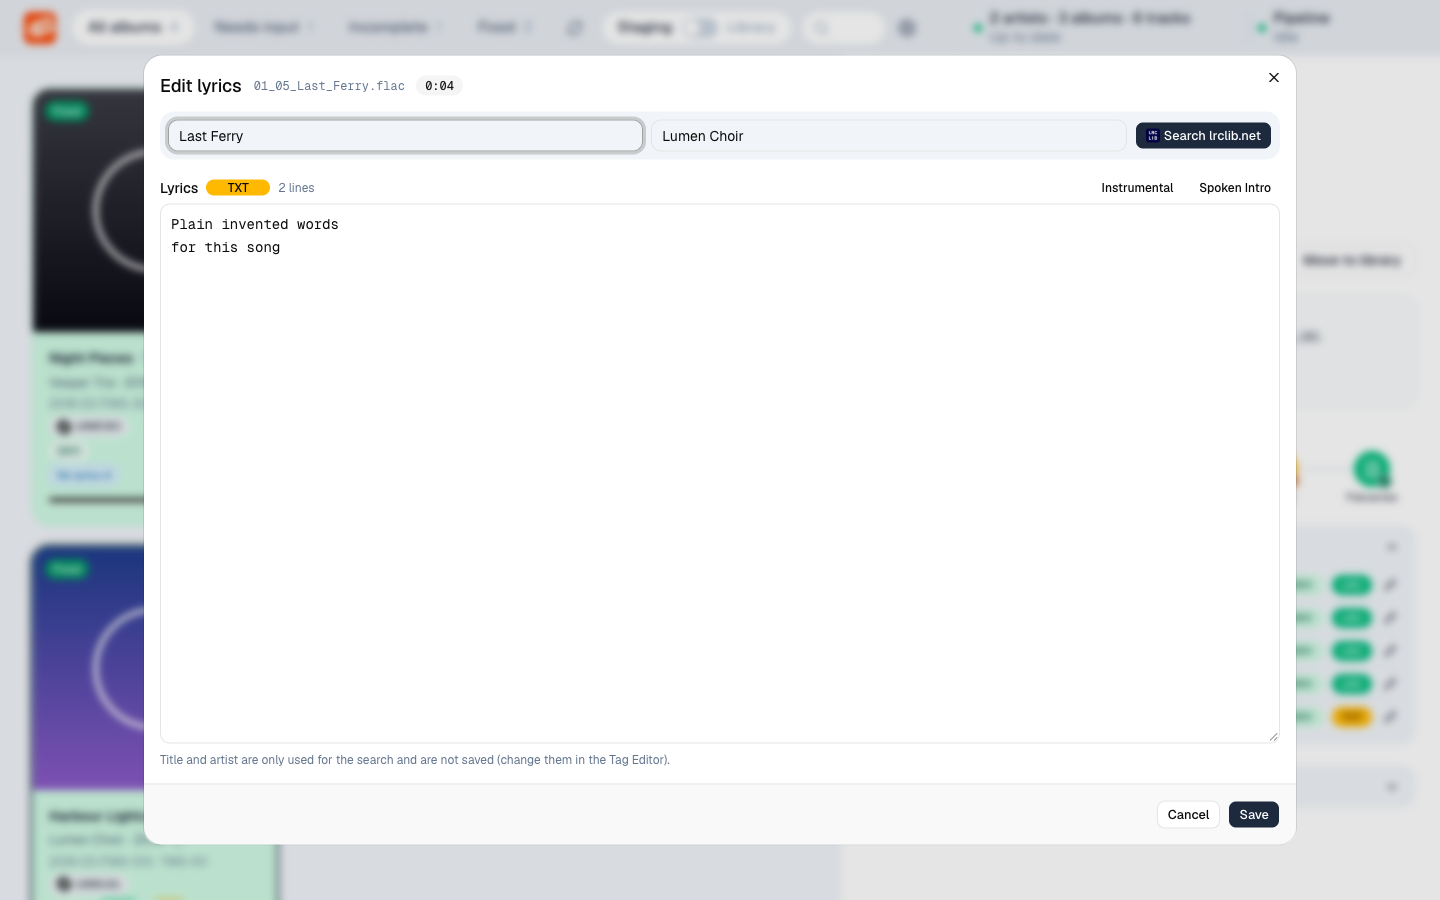
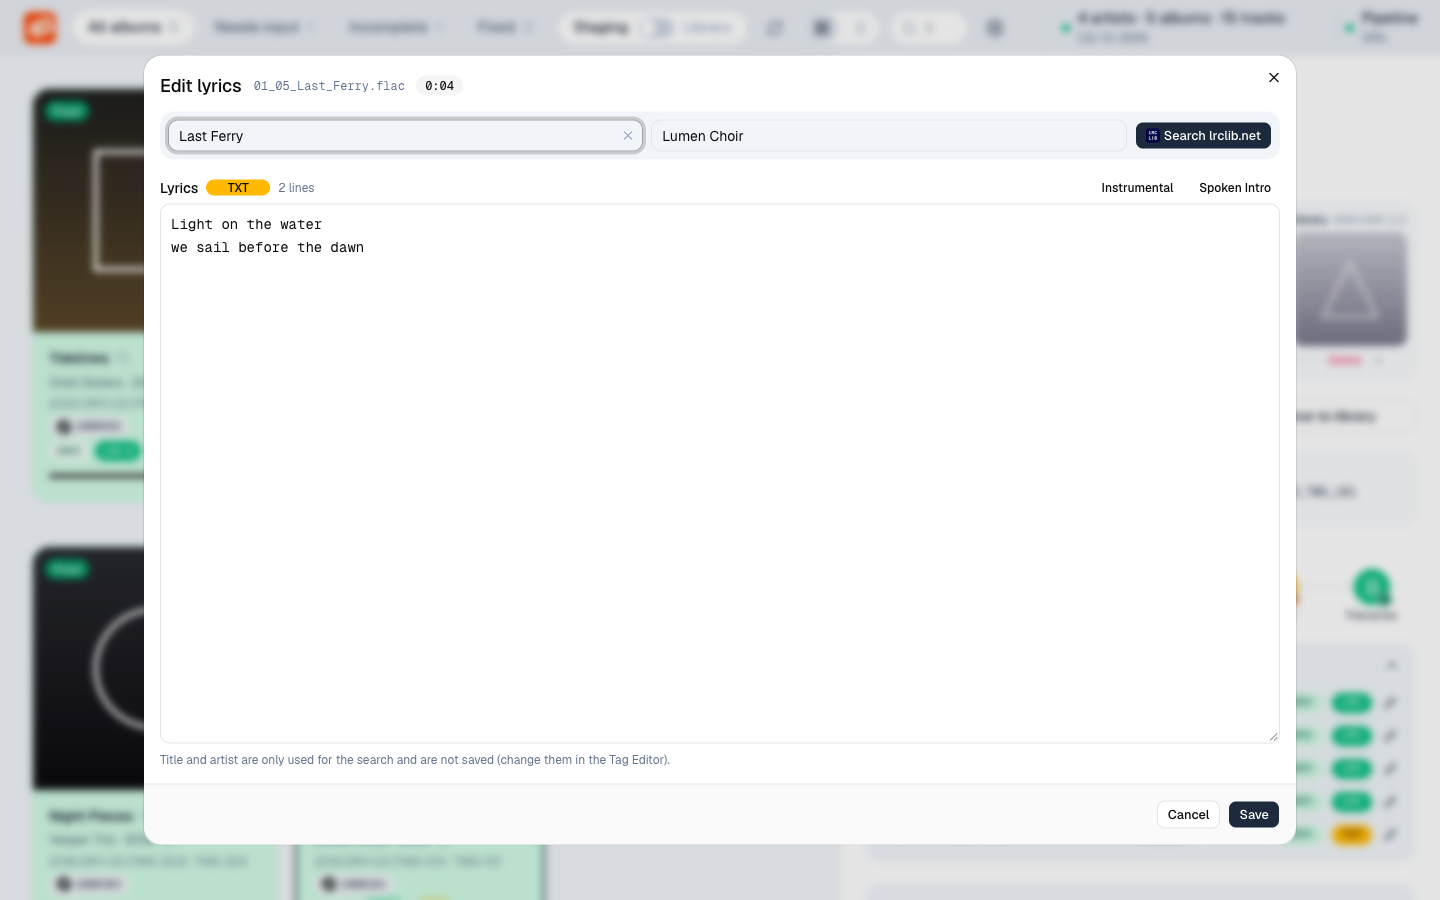
Release 0.5.0: changelog heading, README and screenshots
Why: the owner asked for a release with the changelog and documentation
brought up to date. ADR 0070 and 0071 require the README and every
screenshot to be current before the tag.

What: CHANGELOG `Unreleased` becomes `0.5.0 (2026-11-23)` with a new
empty Unreleased above it. README: card/list view switch, the four cover
fields with paste in each, the per-disc Artwork for switch and Box Cover,
cover files per disc folder and rewritten on library edits, Album Format
and Edition as plain fields, multi-value ARTIST as "A; B", credits one
value per name with legacy tags removed and the required-tags guard,
scripts/fix-credits.py, the :0.5 image tag. All nine screenshots retaken
(board now shows a box set with Box Cover and the disc switch; inspector,
tag editor Tracks with a two-artist track, lyrics editor, move dialog
with per-file cover list, library status, library, settings General and
Library) and a new list.png (list view with a box set).

How checked: screenshots from a scratch instance with invented artists
and albums, generated stereo audio and covers, under /tmp/tagwright-demo
(so the settings path shows no user name), port 8795, no Discogs key;
taken with Playwright driving the installed Chrome headless at 1440 x 900
because the Chrome extension still reports "turned off"; console clean on
every page. Not verified: the Discogs and MusicBrainz dialogs (need a key
and live services, no new screenshot), the published image (built by the
tag workflow).
[…]

diff --git a/README.md b/README.md
@@ -16,7 +16,7 @@ One user, one browser tab. FastAPI backend, Next.js frontend, no database server
 
 You point Tagwright at two folders: a **staging folder** (where downloads land) and a **library folder** (what your music server reads). It then helps you take an album from one to the other.
 
-1. **See what each album needs.** Every folder directly in the staging folder is one album, with everything below it (a box set with `Disc 1 - ...` subfolders is one card, ADR 0076), shown as a card with cover, artist, album, year, Discogs ID, dynamic range, lyrics and a pipeline progress bar. The top bar filters: *Needs input*, *Incomplete*, *Fixed*.
+1. **See what each album needs.** Every folder directly in the staging folder is one album, with everything below it (a box set with `Disc 1 - ...` subfolders is one card, ADR 0076), shown as a card with cover, artist, album, year, Discogs ID, dynamic range, lyrics and a pipeline progress bar. The top bar filters: *Needs input*, *Incomplete*, *Fixed*. A switch next to it shows the albums as cards or as a compact, sortable list (ADR 0085, 0087).
 2. **Fix it.** *Run fixes* runs the pipeline on the album and streams a live log.
 3. **Correct what automation cannot.** Choose the Discogs and MusicBrainz release, edit tags, fix lyrics, replace the cover.
 4. **Move it to the library.** *Move to library* places the files in the library layout.
@@ -44,21 +44,27 @@ The inspector shows each step as done or partial, and which tracks lack it. Note
 
 ![Inspector: pipeline steps, track list with channel and DR badges](docs/screenshots/inspector.png)
 
+![List view with the inspector of a box set](docs/screenshots/list.png)
+
 Tags Tagwright writes are never read back as input, tags owned by Discogs are read-only in the editor, and a user-owned tag is never overwritten by automation (ADR 0004, 0014).
 
 ## Editing
 
-**Tag editor** has five tabs: Album, Tracks, Discogs, MusicBrainz and Other (every tag not shown elsewhere). Tracks lets you change disc, track number, title and artist, reorder by drag and drop, and see each track's time, sample rate and bit depth, channels and lyrics. Disc subtitles are bands between the tracks: a band per disc on a multi-disc album, and a band wherever the subtitle changes inside a disc, with a pen to type one, "+ divider here" to add one and an x to remove one (ADR 0081).
+**Tag editor** has five tabs: Album, Tracks, Discogs, MusicBrainz and Other (every tag not shown elsewhere). The Album tab shows the album's format (empty means CD) and edition as plain fields you can type over (ADR 0097). Tracks lets you change disc, track number, title and artist (several artists as `A; B`, saved as one value each, ADR 0100), reorder by drag and drop, and see each track's time, sample rate and bit depth, channels and lyrics. Disc subtitles are bands between the tracks: a band per disc on a multi-disc album, and a band wherever the subtitle changes inside a disc, with a pen to type one, "+ divider here" to add one and an x to remove one (ADR 0081).
 
 ![Tag editor, Tracks tab](docs/screenshots/tag-editor-tracks.png)
 
-**Discogs** search assigns an album's files to the tracks of a release, which matters when the download holds only a subset of the release. The Discogs-owned tags (album name, version, catalog number, year, ...) are written at once. **MusicBrainz** search picks the matching release, assigns the files to its tracks the same way, stores its IDs and links, and shows a red **Mismatch** when its year differs from the Discogs release, which stops *Move to library* until the release is fixed (ADR 0083). Both dialogs show the release's subtitles as dividers with a "Release" / "Keep mine" choice. Both dialogs have an "Import song titles" checkbox (remembered; on for Discogs, off for MusicBrainz): off imports only the album data, on also writes the release's titles, track and disc numbers and disc subtitles, so titles you prefer, for example without kanji, stay in the files. With it off, an empty disc number, track number or title is still filled from the release.
+**Discogs** search assigns an album's files to the tracks of a release, which matters when the download holds only a subset of the release. The Discogs-owned tags (album name, version, catalog number, year, ...) are written at once. Artists and credits are written one name per value, as Roon reads them: `ARTIST`, `COMPOSER`, `LYRICIST`, `ARRANGER`, `CONDUCTOR`, `REMIXER`, `MIXER`, `PRODUCER`, `ENGINEER`, and `PERSONNEL` (`Name - Role`, mastering included) for every other role; credits Discogs limits to some tracks go only on those tracks. Credit lists and leftovers of earlier taggers are removed, and a file is never saved when the assignment would empty its title, artist, album, album artist, track or disc number (ADR 0100). **MusicBrainz** search picks the matching release, assigns the files to its tracks the same way, stores its IDs and links, and shows a red **Mismatch** when its year differs from the Discogs release, which stops *Move to library* until the release is fixed (ADR 0083). Both dialogs show the release's subtitles as dividers with a "Release" / "Keep mine" choice. Both dialogs have an "Import song titles" checkbox (remembered; on for Discogs, off for MusicBrainz): off imports only the album data, on also writes the release's titles, track and disc numbers and disc subtitles, so titles you prefer, for example without kanji, stay in the files. With it off, an empty disc number, track number or title is still filled from the release.
 
 **Lyrics** are edited per track, optionally after searching lrclib.net under another title or artist.
 
 ![Lyrics editor](docs/screenshots/lyrics-editor.png)
 
-**Cover**: the album details use the full inspector width, and four equal cover fields sit below them: **Front Cover** (one image), **Back Cover**, **Leaflet** and **Media** (several images each, cycled with the arrows). Each field accepts a dropped or uploaded image; the front field also has **paste**, two cover search sites and **remove**. Images are scaled down to the maximum cover size (Settings, 1500 px by default) and embedded in every audio file. A front cover below the minimum size (1400 px by default) keeps the album from moving. When an album moves to the library, `folder.jpg` and numbered files under `Artwork/` are recreated from the embedded images (ADR 0090, 0091).
+**Cover**: the album details use the full inspector width, and four equal cover fields sit below them: **Front Cover** (one image), **Back Cover**, **Leaflet** and **Media** (several images each, cycled with the arrows). Each field accepts a dropped, uploaded or pasted image (click the field, then Cmd/Ctrl+V, ADR 0096); the front field also has two cover search sites and **remove**. Images are scaled down to the maximum cover size (Settings, 1500 px by default) and embedded in every audio file. A front cover below the minimum size (1400 px by default) keeps the album from moving (ADR 0090).
+
+**Multi-disc albums** show an *Artwork for* switch above the fields: *All discs* or one disc, so a disc can have its own front, back, leaflet and media images. Under *All discs* the first field is the **Box Cover**, which a box set can have besides the disc covers (ADR 0098, 0099).
+
+**Cover files**: when an album moves to the library, and whenever its artwork changes there, `folder.jpg` and numbered files under `Artwork/` are written from the embedded images, and files for removed images are deleted. With disc folders each disc folder gets its own set, and the album folder's `folder.jpg` is the box cover, the layout Roon reads for box sets (ADR 0091, 0098, 0099).
 
 ## Moving to the library
 
@@ -121,7 +127,7 @@ The program logs jobs, moves, renames, assignments, tag, lyrics and cover edits 
 
 ### Docker
 
-A published image (amd64 and arm64) is on GitHub's registry; each release also has its own tag (for example `:0.3`, [ADR 0070](docs/adr/0070-releases.md)):
+A published image (amd64 and arm64) is on GitHub's registry; each release also has its own tag (for example `:0.5`, [ADR 0070](docs/adr/0070-releases.md)):
 
 ```bash
 docker pull ghcr.io/koehntopp/tagwright:latest
@@ -145,6 +151,7 @@ uv run ruff check . && uv run ruff format --check .
 cd ui && npm run build                # frontend; commit the resulting static/ui/
 ./scripts/retype-covers.py <paths>     # one-off: retype single untyped embedded covers to Front Cover (3); --write saves
 ./scripts/retype-covers.py --multi-albums <paths>  # list only album folders with multi-picture files
+./scripts/fix-credits.py <paths>       # one-off: rewrite artists and credits one value per name from Discogs, drop legacy tags (ADR 0100); --write saves
 ```
 
 Layout: `app.py` (web layer), `pipeline/` (the steps), `library/` (watcher, planner, layout template), `ui/` (Next.js, shadcn/ui), `docs/adr/` (the specification).

diff --git a/CHANGELOG.md b/CHANGELOG.md
@@ -4,6 +4,8 @@ What changed for people who use Tagwright, newest first. Every functional change
 
 ## Unreleased
 
+## 0.5.0 (2026-11-23)
+
 ### Changed
 
 - Assigning a Discogs release writes artists and credits one name per value, as Roon reads them: ARTIST, COMPOSER, LYRICIST, ARRANGER, CONDUCTOR, REMIXER, MIXER, PRODUCER, ENGINEER, and PERSONNEL ("Name - Role", mastering included) for everything else. Credits Discogs limits to some tracks no longer land on every track. Old credit lists (PERFORMERYR, INVOLVEDPEOPLE…) and leftover tags from earlier taggers and rippers are removed. A track's artists show as "A; B" in the Tag Editor [0100].
@@ -15,7 +17,6 @@ What changed for people who use Tagwright, newest first. Every functional change
 - The Tag Editor's Album tab shows the album's current format in the Album Format field (it was empty unless an override was set). Type over it to change the format; no override tag is written, and an empty field means CD. Assigning a Discogs release still sets the release's format [0097].
 - The card/list buttons sit in a pill, and together with Rescan they moved between the Staging / Library switch and the search [0095].
 - Every text field now shows an x while it has text and you point at it or type in it; clicking it empties the field (number and read-only fields and the lyrics editor excepted). The search field no longer shows the ⌘K hint; ⌘K still jumps to it [0094].
-
 - List view rows are shorter, so more albums fit on screen without scrolling [0087].
 
 ### Fixed
